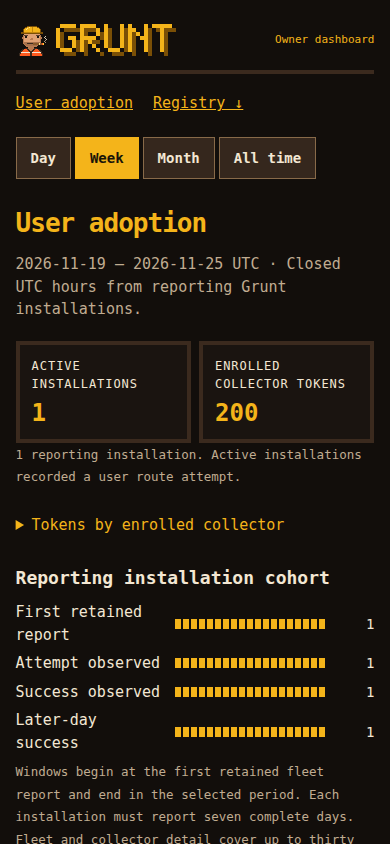
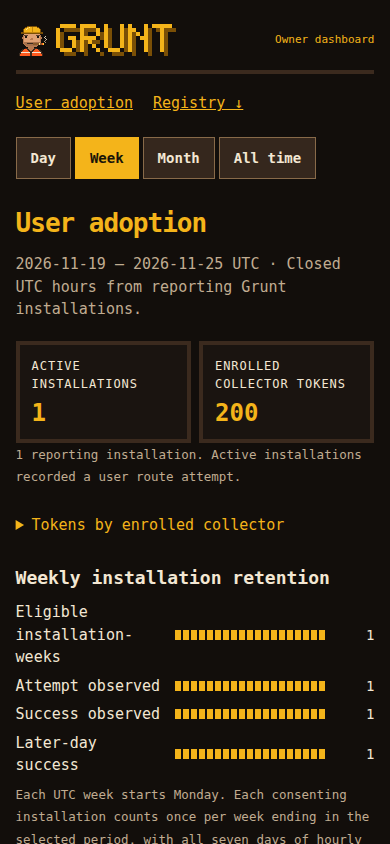
Measure retention in complete opted-in installation weeks

Changed region(s): [[0.0308, 0.6777, 0.9538, 1.0], [0.9231, 0.7393, 0.9538, 0.8934]]

diff --git a/src/admin/adoption.ts b/src/admin/adoption.ts
@@ -15,22 +15,24 @@ export async function adoption(db: Client, registry: Registry, period: Period, n
       json_extract(s.value,'$.failed') + json_extract(s.value,'$.cancelled'),0)>0) AS attempted,
     MAX(COALESCE(json_extract(s.value,'$.passed'),0)>0) AS succeeded
     FROM fleet_hours f LEFT JOIN json_each(f.series) s ON true
-    WHERE f.hour>=? AND f.hour+3600000<=? GROUP BY f.installation,f.hour`;
+    WHERE f.adoption_consent=1 AND f.hour>=? AND f.hour+3600000<=? GROUP BY f.installation,f.hour`;
   const [active, cohort, collectorUsage, feedback, diagnostics, metering] = await db.batch([
     { sql: `WITH hours AS (${hourlyActivity})
       SELECT COUNT(DISTINCT CASE WHEN attempted THEN installation END) AS active,
-      COUNT(DISTINCT installation) AS reporting FROM hours`, args: [start,now] },
-    { sql: `WITH hours AS (${hourlyActivity}), first_report AS (
-      SELECT installation,MIN(hour) AS joined FROM hours GROUP BY installation
-      HAVING MIN(hour)+? BETWEEN ? AND ?),
-      progression AS (
-        SELECT first_report.installation,joined,MIN(CASE WHEN attempted THEN hour END) AS attempted,
-          MIN(CASE WHEN succeeded THEN hour END) AS success,MAX(CASE WHEN succeeded THEN hour END) AS last_success
-        FROM first_report JOIN hours USING(installation) WHERE hour<joined+?
-        GROUP BY first_report.installation,joined HAVING COUNT(*)=168 AND MAX(incomplete)=0)
-      SELECT COUNT(*) AS joined,COUNT(attempted) AS attempted,COUNT(success) AS succeeded,
-        COUNT(CASE WHEN last_success/? > success/? THEN 1 END) AS retained FROM progression`,
-      args: [0,now,7*day,start,now,7*day,day,day] },
+      COUNT(DISTINCT installation) AS reporting FROM hours`, args: [Math.max(start,now-30*day),now] },
+    { sql: `WITH hours AS (${hourlyActivity}), weeks AS (
+        -- The Unix epoch was a Thursday, three days after Monday.
+        SELECT *,hour-((hour+3*?)%(7*?)) AS monday FROM hours),
+      observations AS (
+        SELECT installation,monday,COUNT(*)=168 AND MAX(incomplete)=0 AS eligible,
+          MAX(attempted) AS attempted,MIN(CASE WHEN succeeded THEN hour END) AS success,
+          MAX(CASE WHEN succeeded THEN hour END) AS last_success
+        FROM weeks WHERE monday>=? AND monday+? BETWEEN ? AND ? GROUP BY installation,monday)
+      SELECT COUNT(*) AS observed,COUNT(CASE WHEN eligible THEN 1 END) AS joined,
+        COUNT(CASE WHEN eligible AND attempted THEN 1 END) AS attempted,
+        COUNT(CASE WHEN eligible THEN success END) AS succeeded,
+        COUNT(CASE WHEN eligible AND last_success/? > success/? THEN 1 END) AS retained FROM observations`,
+      args: [Math.max(start-7*day,now-30*day),now,day,day,now-30*day,7*day,start,now,day,day] },
     { sql: `SELECT instance_id AS instance,SUM(input_tokens+output_tokens) AS tokens,
       COUNT(*)-COUNT(input_tokens+output_tokens) AS missing FROM admin_usage_observations
       WHERE at>=? AND at<? GROUP BY instance_id ORDER BY tokens DESC,instance_id`, args: range },
@@ -87,7 +89,7 @@ export async function adoption(db: Client, registry: Registry, period: Period, n
       configured: entry?.models ?? (entry?.model ? [entry.model] : []) };
   }).sort((a,b) => (b.attempts ?? -1)-(a.attempts ?? -1) || a.id.localeCompare(b.id));
   return { start, now, published: registry.published, activeInstallations: Number(active!.rows[0]!.active),
-    reportingInstallations: Number(active!.rows[0]!.reporting), collectors, cohort: cohort!.rows[0], routes,
+    reportingInstallations: Number(active!.rows[0]!.reporting), collectors, cohort: cohort!.rows[0], cohortHistoryStart: now-30*day, routes,
     tokens: collectors.some(a => a.tokens !== null) ? collectors.reduce((n,a) => n+(a.tokens ?? 0),0) : null,
     history: [...history].map(([bucket,counts]) => ({ bucket, counts })) };
 }

diff --git a/site/admin/adoption.js b/site/admin/adoption.js
@@ -48,8 +48,8 @@ function render(data) {
     <div class="cards"><div>Active installations<b>${fmt(data.reportingInstallations ? data.activeInstallations : null)}</b></div><div>Enrolled collector tokens<b>${fmt(data.tokens)}</b></div></div>
     <small>${fmt(data.reportingInstallations)} reporting installation${data.reportingInstallations === 1 ? '' : 's'}. Active installations recorded a user route attempt.</small>
     <details><summary>Tokens by enrolled collector</summary><div class="scroll">${table(['Collector','Measured tokens','Replies missing token counts'],collectors.map(c => [c.instance,fmt(c.tokens),fmt(c.missing)]))}</div></details>
-    <h3>Reporting installation cohort</h3>${bars([['First retained report',cohort.joined],['Attempt observed',cohort.attempted],['Success observed',cohort.succeeded],['Later-day success',cohort.retained]],cohort.joined)}
-    <small>Windows begin at the first retained fleet report and end in the selected period. Each installation must report seven complete days. Fleet and collector detail cover up to thirty days. Account signup, user counts and per-user tokens are unavailable.</small>
+    <h3>Weekly installation retention</h3>${cohort.joined ? bars([['Eligible installation-weeks',cohort.joined],['Attempt observed',cohort.attempted],['Success observed',cohort.succeeded],['Later-day success',cohort.retained]],cohort.joined) : '<small>Unavailable · no complete consenting installation-weeks in this period.</small>'}
+    <small>Each UTC week starts Monday. Each consenting installation counts once per week ending in the selected period, with all seven days of hourly reports complete. Eligible: ${fmt(cohort.joined)} of ${fmt(cohort.observed)} observed installation-weeks. Earlier windows starting before ${date(data.cohortHistoryStart)} UTC are unavailable after installation IDs expire. Account signup, user counts and per-user tokens are unavailable.</small>
     <div class="pair"><div><h3>Country</h3>Unreported</div><div><h3>Device type</h3>Unreported</div></div>
     <h3>Usage by route</h3>${bars(routes.filter(r => r.attempts>0).map(r => [r.id,r.attempts]),attempts)}
     <small>Anonymous router reports · ${fmt(attempts)} reported attempts, including retries. Cancellations are excluded.</small>

diff --git a/src/fleet.test.ts b/src/fleet.test.ts
@@ -44,7 +44,7 @@ it('audits a complete UTC day through route observations, signed intake and repl
         const observer = new SourceStatus(['kilo'],()=>now);
         observer.setDiagnostics(journal);
         const feedback = new RouteFeedback({ directory, urls:[url], listed:()=>['kilo'], retired:()=>false, now:()=>end,
-          fleet: token => uploadFleet(journal,directory,[url],token,end,fetcher), fetcher });
+          fleet: token => uploadFleet(journal,directory,[url],token,end,fetcher,installation==='first'), fetcher });
         for (let day=3;day>=1;day--) {
           for (let attempt=0;attempt<24;attempt++) {
             now = end-day*DAY + attempt*HOUR + 30000;
@@ -68,6 +68,9 @@ it('audits a complete UTC day through route observations, signed intake and repl
     }
     expect(uploads).toBe(144);
     expect((await api.request(replay!.clone())).status).toBe(204);
+    expect((await client.execute(`SELECT adoption_consent,COUNT(*) AS hours FROM fleet_hours
+      GROUP BY adoption_consent ORDER BY adoption_consent`)).rows)
+      .toEqual([{adoption_consent:0,hours:72},{adoption_consent:1,hours:72}]);
     const rejected = replay!.clone();
     rejected.headers.set('Authorization','Bearer '+ 'a'.repeat(97));
     expect((await api.request(rejected)).status).toBe(401);
@@ -117,7 +120,7 @@ it('keeps a shift toward a busier high-failure installation out of the backlog',
         const passed = 100*scale - failed;
         const row = { release:'1.2.3',route:'kilo',starts:100*scale,passed,failed,timed:passed,
           slow:(higher ? 30 : 1)*scale,quota:0,timeout:failed,cancelled:0 };
-        await db.execute({sql:'INSERT INTO fleet_hours VALUES(?,?,0,?)',
+        await db.execute({sql:'INSERT INTO fleet_hours(hour,installation,incomplete,series) VALUES(?,?,0,?)',
           args:[end-3*DAY+hour*HOUR,installation,JSON.stringify([row])]});
       }
     }

diff --git a/src/admin/adoption.test.ts b/src/admin/adoption.test.ts
@@ -22,16 +22,24 @@ it('counts reporting installations in UTC windows and requires a complete observ
     for (let i=0;i<168;i++) {
       for (const install of ['active','idle','partial']) await saveHour(db,install,{
         hour:joined+i*HOUR,incomplete:install==='partial' && i===1,series:install!=='idle' && (i===0 || i===24)?series:[]
-      },now);
+      },now,true);
     }
-    await saveHour(db,'older',{hour:midnight-8*day,incomplete:false,series},now);
-    await saveHour(db,'new',{hour:midnight,incomplete:false,series},now);
+    await saveHour(db,'older',{hour:midnight-8*day,incomplete:false,series},now,true);
+    await saveHour(db,'new',{hour:midnight,incomplete:false,series},now,true);
+    // Earlier observations and a replay do not move the calendar cohort or double count it.
+    await saveHour(db,'active',{hour:joined-HOUR,incomplete:false,series:[]},now,true);
+    await saveHour(db,'active',{hour:joined,incomplete:false,series},now,true);
+    await saveHour(db,'no-consent',{hour:midnight,incomplete:false,series},now);
     for (const [period,count] of [['day',1],['week',3],['month',4],['all',4]] as const) {
       const result = await adoption(db,bundledRegistry,period,now);
       expect(result.activeInstallations).toBe(count);
       expect(result.cohort).toMatchObject({joined:2,attempted:1,succeeded:1,retained:1});
       expect(result.tokens).toBeNull();
+      if (period === 'day') expect(result.cohort!.observed).toBe(3);
     }
+    const expired = await adoption(db,bundledRegistry,'all',now+31*day);
+    expect(expired.cohort!.observed).toBe(0);
+    expect(expired.activeInstallations).toBe(0);
   } finally { db.close(); }
 });
 

diff --git a/src/local/fleet-upload.ts b/src/local/fleet-upload.ts
@@ -4,7 +4,7 @@ import { join } from 'node:path';
 import { DAY, fleetHour, HOUR } from '../fleet.js';
 import type { DiagnosticsStore } from './diagnostics.js';
 
-export async function uploadFleet(store: DiagnosticsStore, directory: string, urls: readonly string[], token: string, now = Date.now(), fetcher = fetch) {
+export async function uploadFleet(store: DiagnosticsStore, directory: string, urls: readonly string[], token: string, now = Date.now(), fetcher = fetch, adoptionConsent = false) {
   const end = Math.floor(now / HOUR)*HOUR;
   const meta = await store.metrics({ since: end, until: end });
   if (!meta.coverage.available || !meta.coverage.startedAt || !meta.streamId) return;
@@ -41,7 +41,7 @@ export async function uploadFleet(store: DiagnosticsStore, directory: string, ur
     for (const url of urls) {
       try {
         const response = await fetcher(url + '/fleet', { method: 'POST', redirect: 'error', signal: AbortSignal.timeout(10000),
-          headers: { Authorization: 'Bearer ' + token, 'Content-Type': 'application/json' }, body });
+          headers: { Authorization: 'Bearer ' + token, 'Content-Type': 'application/json', ...(adoptionConsent ? { 'X-Grunt-Adoption-Consent': '1' } : {}) }, body });
         await response.body?.cancel();
         if (response.status === 204) { acknowledged = true; break; }
       } catch { /* A mirror may still be available. */ }

diff --git a/src/fleet.ts b/src/fleet.ts
@@ -71,9 +71,10 @@ export function fleetPrincipal(token: string, secret: string | undefined) {
 }
 
 export const fleetSchema = 'CREATE TABLE IF NOT EXISTS fleet_hours(hour INTEGER, installation TEXT, incomplete INTEGER, series TEXT NOT NULL, PRIMARY KEY(hour,installation));';
-export async function saveHour(db: Client, installation: string, h: FleetHour, now: number) {
+export async function saveHour(db: Client, installation: string, h: FleetHour, now: number, adoptionConsent = false) {
   await db.batch([
-    { sql: 'INSERT OR REPLACE INTO fleet_hours VALUES(?,?,?,?)', args: [h.hour, installation, Number(h.incomplete), JSON.stringify(h.series)] },
+    { sql: 'INSERT OR REPLACE INTO fleet_hours(hour,installation,incomplete,series,adoption_consent) VALUES(?,?,?,?,?)',
+      args: [h.hour, installation, Number(h.incomplete), JSON.stringify(h.series), Number(adoptionConsent)] },
     { sql: 'DELETE FROM fleet_hours WHERE hour < ?', args: [now - 30 * DAY] }
   ], 'write');
 }

diff --git a/src/registry-store.ts b/src/registry-store.ts
@@ -96,6 +96,10 @@ export class RegistryStore {
         quota INTEGER NOT NULL,auth INTEGER NOT NULL,latency_ms INTEGER NOT NULL,signup_ok INTEGER NOT NULL,signup_failed INTEGER NOT NULL,retired INTEGER NOT NULL,
         PRIMARY KEY(day,install,id));
     `);
+    const columns = await this.db.execute('PRAGMA table_info(fleet_hours)');
+    if (!columns.rows.some(row => row.name === 'adoption_consent')) {
+      await this.db.execute('ALTER TABLE fleet_hours ADD COLUMN adoption_consent INTEGER NOT NULL DEFAULT 0');
+    }
   }
   async recordWrite(login: string, id: string, before: unknown, after: unknown) {
     const result = await this.db.execute({ sql: 'INSERT INTO registry_writes VALUES (?,?,?,?,?)',

diff --git a/src/local/main.ts b/src/local/main.ts
@@ -165,7 +165,7 @@ export function start(env = process.env) {
   const feedback = new RouteFeedback({ directory, urls,
     ...(reportFleet ? { fleet: async (token: string) => {
       await diagnosticReady;
-      if (diagnostics) await uploadFleet(diagnostics, directory, urls, token);
+      if (diagnostics) await uploadFleet(diagnostics, directory, urls, token, Date.now(), fetch, gruntEnv('ADOPTION_REPORTING',env) === '1');
     } } : {}),
     listed: () => registry.adapters.map(adapter => adapter.id), retired: id => sources.retired(id), ...(runtimeVersion ? { client: runtimeVersion } : {}) });
   sources.setFeedback((id, outcome, latencyMs) => feedback.record(id, outcome, latencyMs));

diff --git a/src/registry-routes.ts b/src/registry-routes.ts
@@ -121,7 +121,7 @@ export function registryRoutes(options: string | RegistryRouteOptions = {}) {
     const payload: unknown = await c.req.json().catch(() => null);
     const at = now();
     if (!validHour(payload, at)) return c.body(null, 400);
-    await saveHour(store.db, installation, payload, at);
+    await saveHour(store.db, installation, payload, at, c.req.header('X-Grunt-Adoption-Consent') === '1');
     return c.body(null, 204);
   });
   app.get('/v1/registry/scores', async c => {

diff --git a/docs/admin-deployment.md b/docs/admin-deployment.md
@@ -216,9 +216,13 @@ login. The machine read token cannot retrieve account analytics.
 
 Day, week and month start at UTC midnight today, six days ago and twenty-nine
 days ago. Active installations have a user attempt start or outcome in a retained
-fleet hour. Installation cohorts start at the first retained fleet report and
-require seven days of complete consecutive hourly reports. The period selects
-windows ending in that period. Report history can expire after thirty days.
+fleet hour. Installation reporting for adoption requires `GRUNT_ADOPTION_REPORTING=1`
+on the daemon with fleet sharing enabled. Unmarked or historical uploads do not
+establish consent. Membership is one installation per fixed Monday-to-Monday
+UTC week ending in the selected period. Reports are keyed by installation and hour.
+Missing or incomplete hours exclude that installation-week from the funnel.
+Windows beginning before the thirty-day fleet cutoff are unavailable. Anonymous
+registry rollups retain route totals only and cannot extend cohort history.
 Collector tokens cover complete input and output measurements on successful
 user replies. Grunt has no account signup, country or device-class signal here.
 

diff --git a/README.md b/README.md
@@ -59,6 +59,8 @@ Grunt also shares [route health counts](docs/router.md#4-route-feedback) with
 the registry by default to improve routing. The daily fleet review uses hourly
 counts of user attempts, failures and slow successes by route and release.
 Set `GRUNT_FLEET_REPORTING=0` in the daemon environment to disable fleet uploads.
+To include your installation in the owner dashboard’s activity and weekly retention
+counts, set `GRUNT_ADOPTION_REPORTING=1` while fleet uploads are enabled.
 Prompts, responses, paths and command output stay out of these reports.
 
 `npx usegrunt add <provider-or-base-URL>` adds a provider. https://grunt.run.
